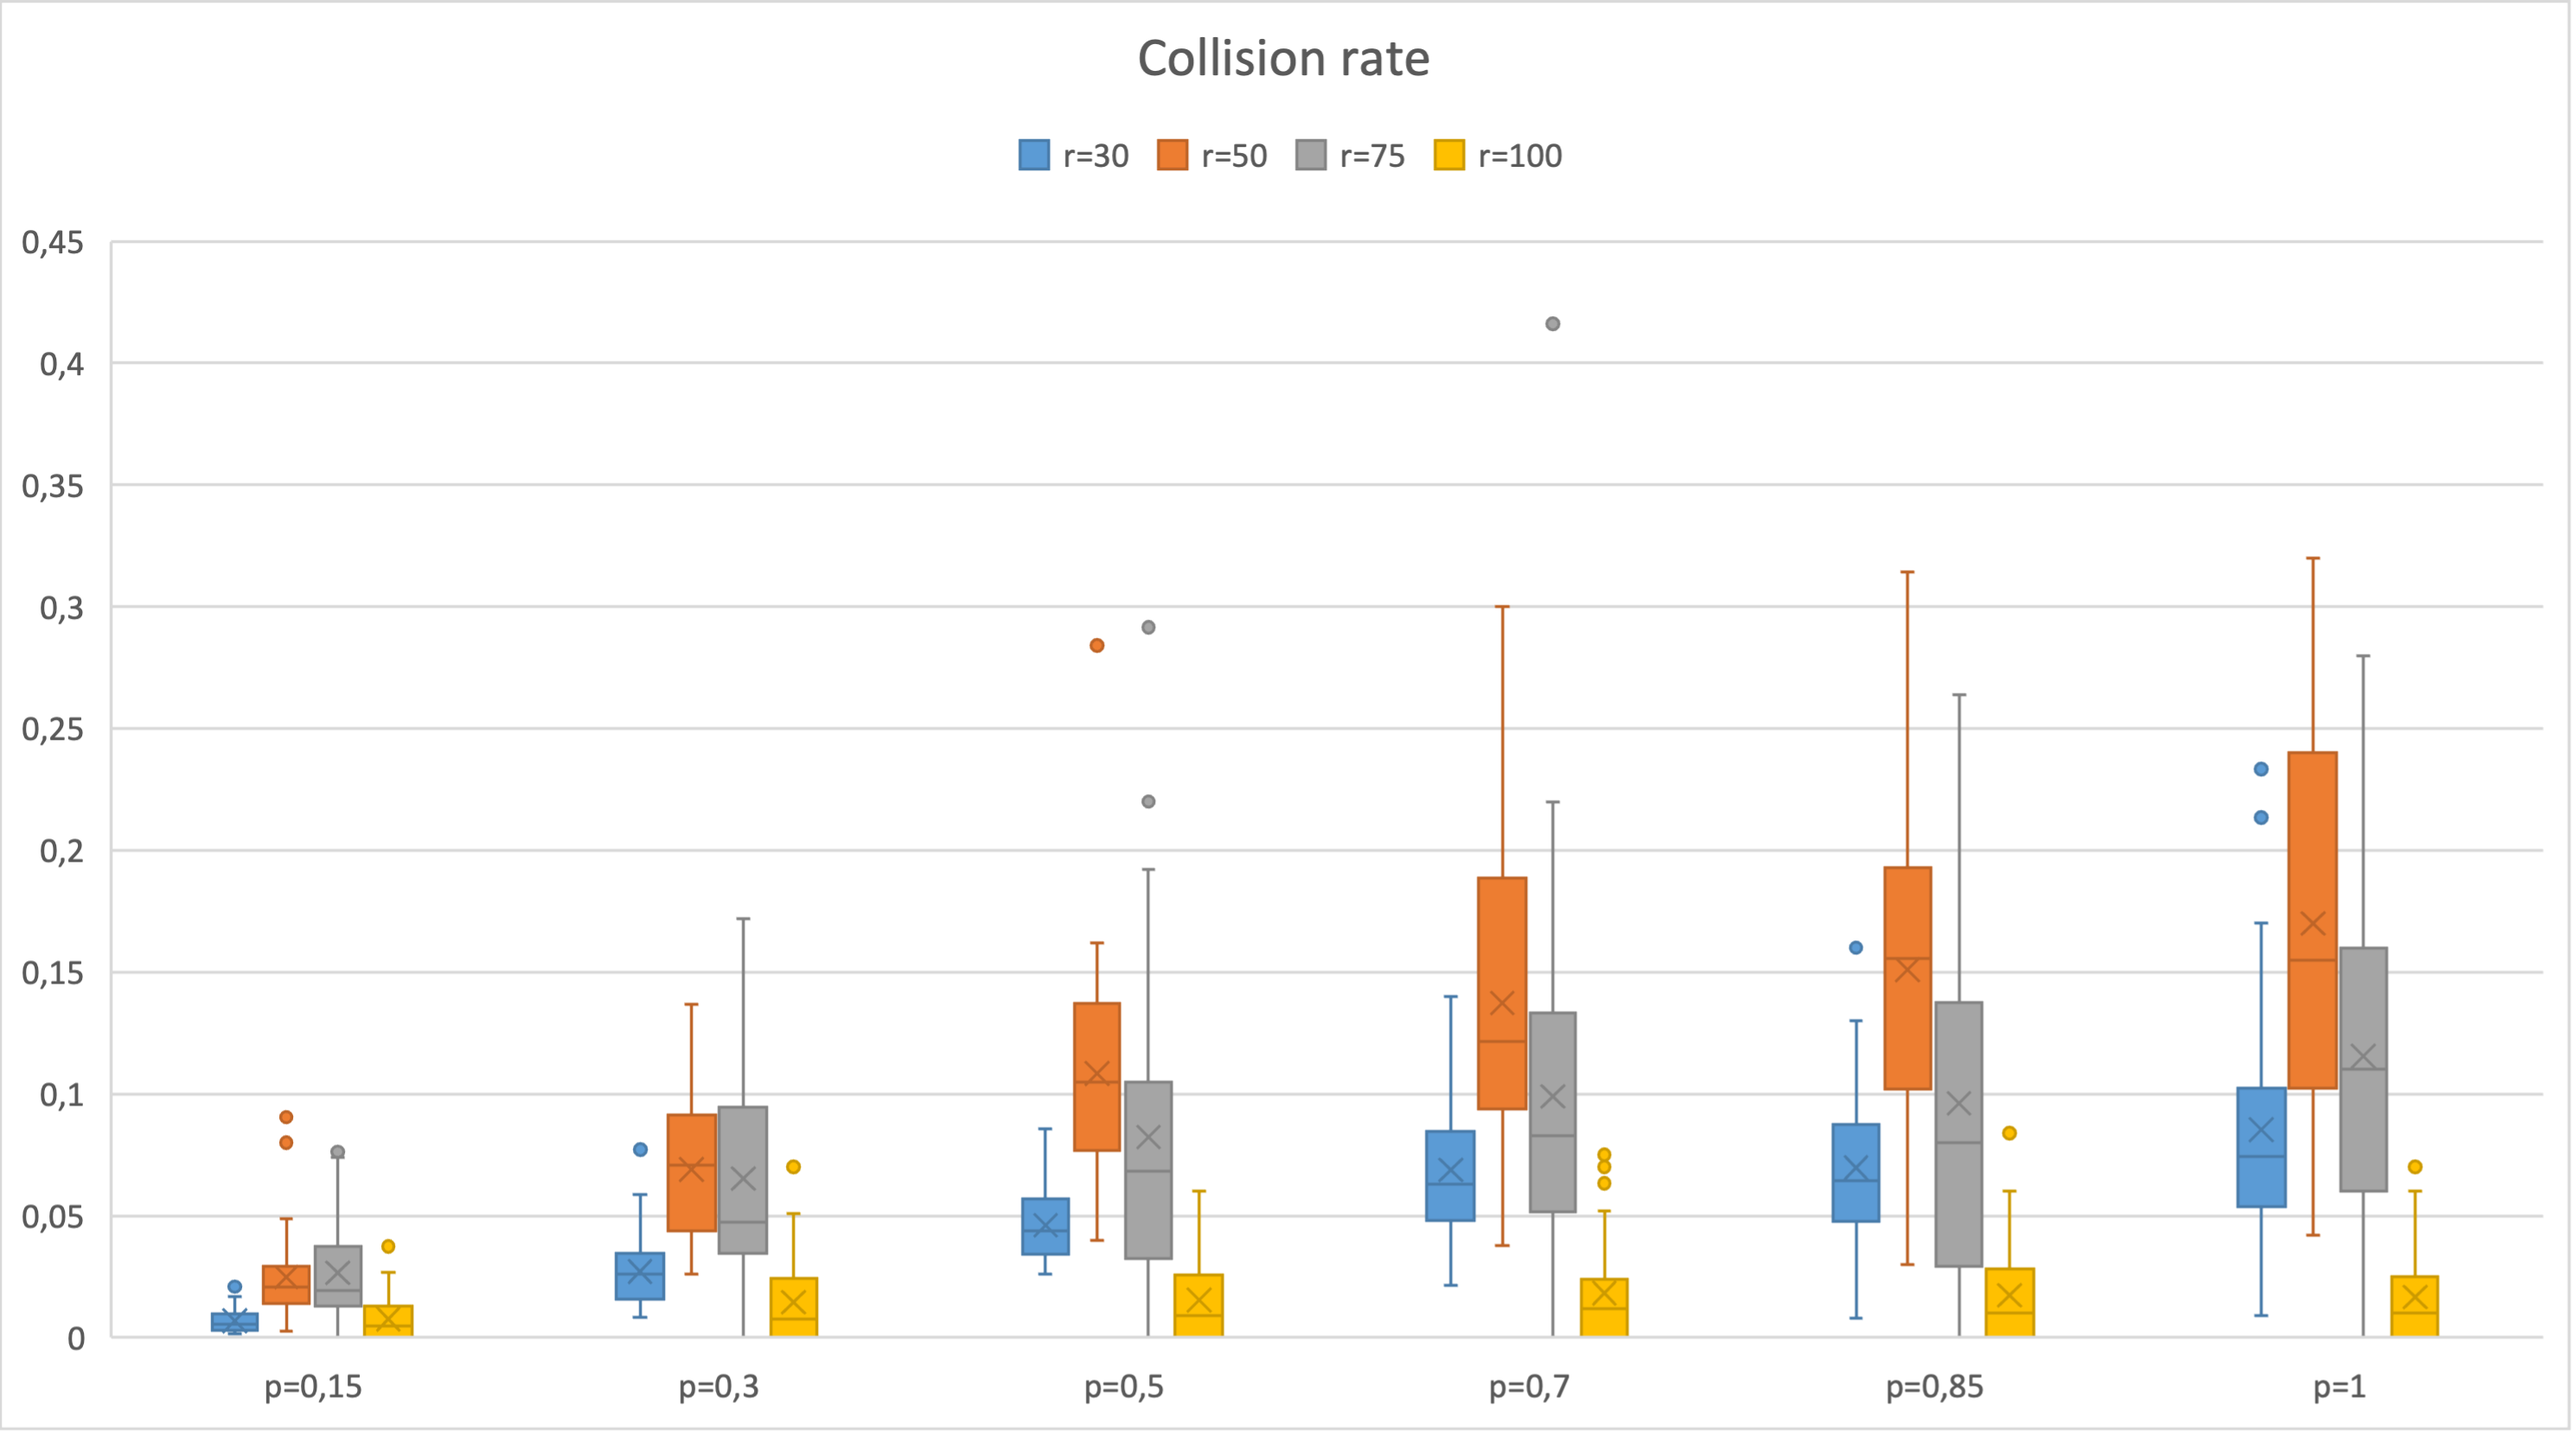
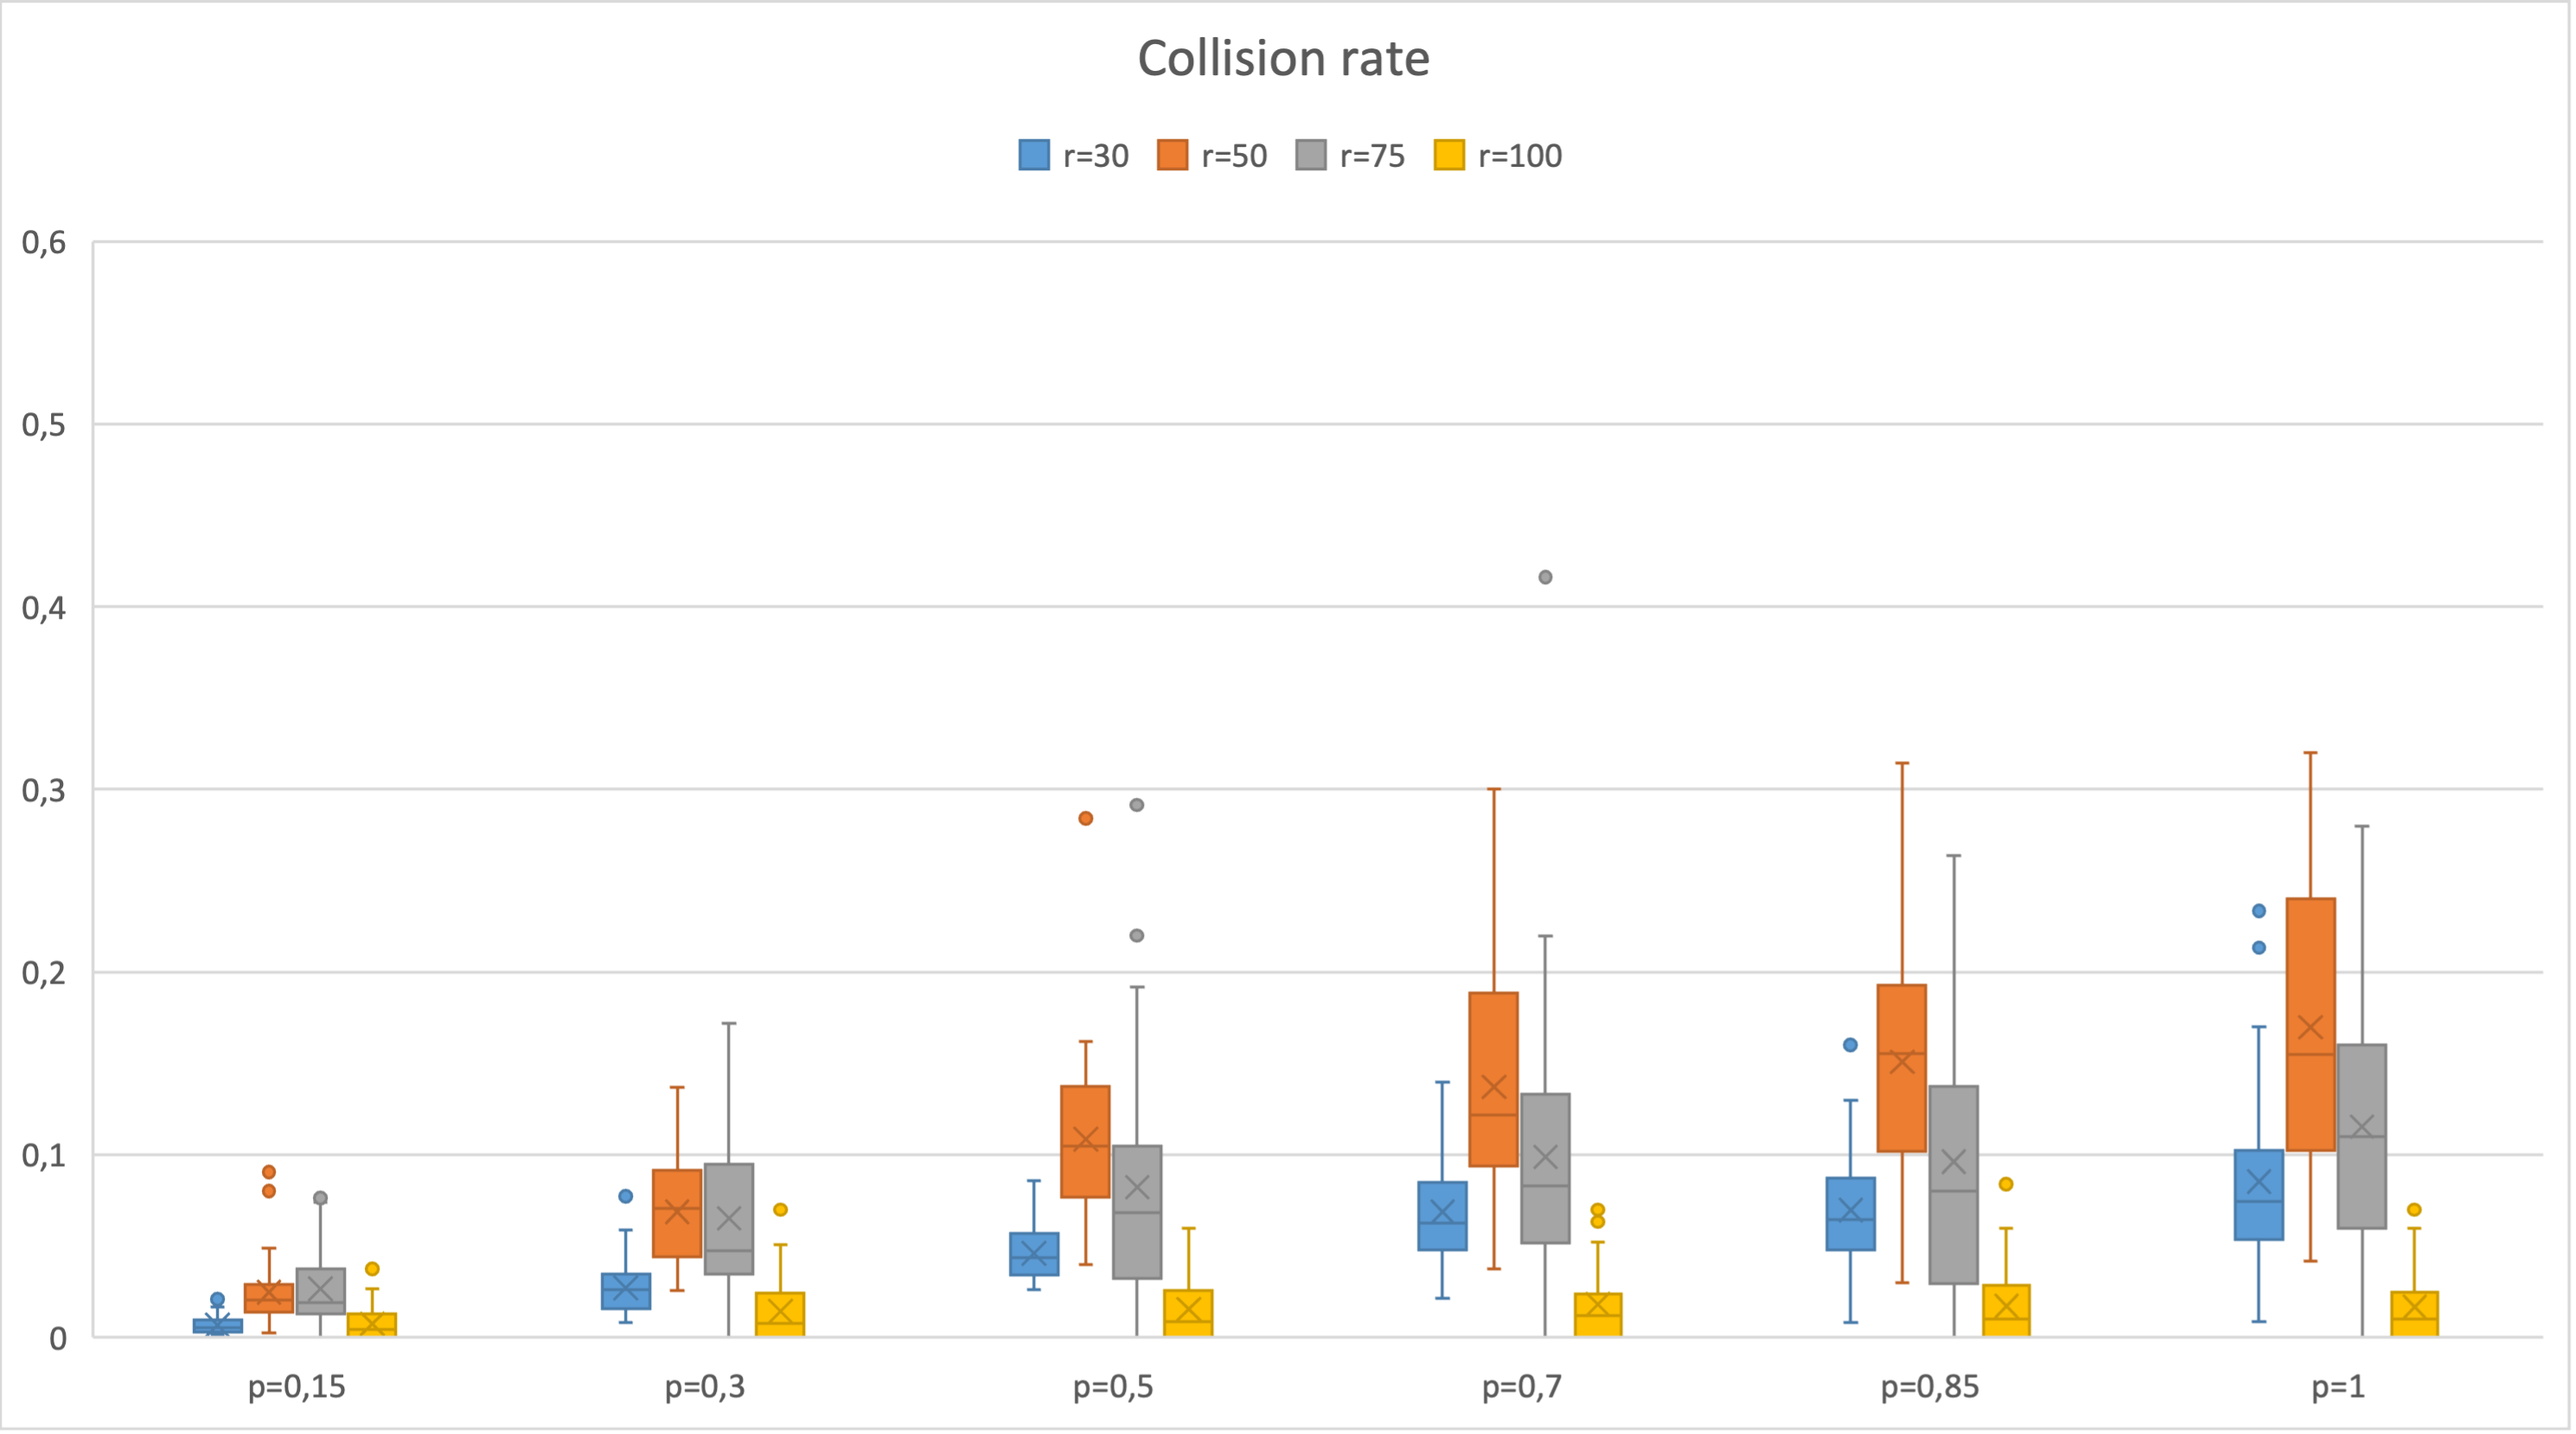
Fix wrong scale in collision rate graphs

diff --git a/documentation/Varying_Nodes_Boxplot.tex b/documentation/Varying_Nodes_Boxplot.tex
@@ -103,7 +103,7 @@ At the edges of the node numbers chosen for our configurations we have 50 and 70
   \caption{50 Nodes}\label{fig:awesome_image1}
 \endminipage\hfill
 \minipage{0.50\linewidth}
-  \includegraphics[width=\linewidth]{./images/Collision200Boxplot.png}
+  \includegraphics[width=\linewidth]{./images/Collision200BoxplotScaled.png}
   \caption{200 Nodes}\label{fig:awesome_image2}
 \endminipage
 \end{figure}
@@ -114,7 +114,7 @@ At the edges of the node numbers chosen for our configurations we have 50 and 70
   \caption{700 Nodes}\label{fig:awesome_image1}
 \endminipage\hfill
 \minipage{0.50\linewidth}
-  \includegraphics[width=\linewidth]{./images/Collision200Boxplot.png}
+  \includegraphics[width=\linewidth]{./images/Collision200BoxplotScaled.png}
   \caption{200 Nodes}\label{fig:awesome_image2}
 \endminipage
 \end{figure}
